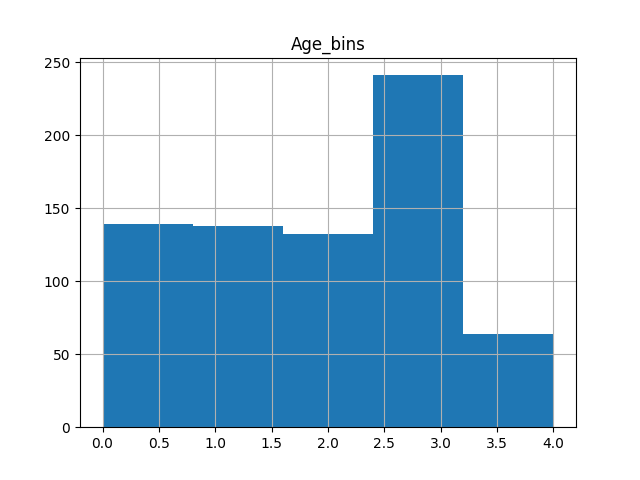
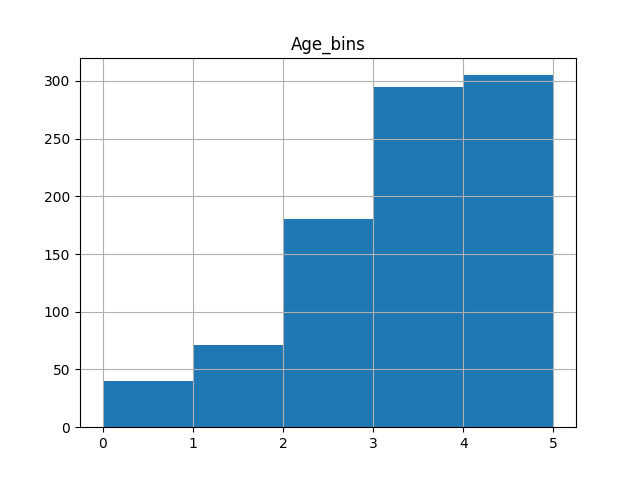
Ticket group, Fare group, Random Forest Classification

diff --git a/train.py b/train.py
@@ -4,8 +4,10 @@ import matplotlib.pyplot as plt
 import seaborn as sn
 
 from sklearn.linear_model import LogisticRegression
+from sklearn.ensemble import RandomForestClassifier
 from sklearn.impute import SimpleImputer
 from sklearn import preprocessing 
+from sklearn import metrics
 
 train = pd.read_csv("train.csv")
 test = pd.read_csv("test.csv")
@@ -16,16 +18,18 @@ test['Age'] = test['Age'].replace('NaN', np.nan)
 
 titels = ('Mlle.', 'Dr.', 'Master.', 'Col.', 'Rev.', 'Sir.', 'Lady.', 'Major.', 'Mme.', 'Capt.')
 
-k=-1
-for i in train['Age']:
-	k+=1
+print(train.groupby('SibSp', as_index=False)['Age'].mean())
+print(train.groupby('Parch', as_index=False)['Age'].mean())
+
+k=0
+for i in train['PassengerId']:
 	string = (train.iloc[k,3])
 	train.at[k, 'Name'] = string.split(',', 1)[0]
 	train.at[k, 'Titles'] = 0
 	for i in string.split(' '):
 		if i in titels:
 			train.at[k, 'Titles'] = 1	
-	if pd.isna(i):
+	if pd.isna(train.at[k, 'Age']):
 		if train.iloc[k,6] < 2:
 			if train.iloc[k,7] > 2:
 				train.at[k, 'Age'] = train.loc[train['Parch'] > 2, 'Age'].mean()
@@ -36,16 +40,34 @@ for i in train['Age']:
 		if train.iloc[k,6] > 2:
 			train.at[k, 'Age'] = train.loc[train['SibSp'] > 2, 'Age'].mean()
 
-k=-1
-for i in test['Age']:
+	try:
+		integer = int(train.iloc[k,8])
+		if integer > 99999:
+			train.at[k, 'Ticket_group'] = 0
+		if integer < 100000:
+			train.at[k, 'Ticket_group'] = 1
+	except ValueError:
+		train.at[k, 'Ticket_group'] = 2
+
+	if train.iloc[k,9] < 8:
+		train.at[k, 'Fare_group'] = 0
+	elif train.iloc[k,9] < 16:
+		train.at[k, 'Fare_group'] = 1
+	elif train.iloc[k,9] < 50:
+		train.at[k, 'Fare_group'] = 2
+	else:
+		train.at[k, 'Fare_group'] = 3
 	k+=1
+
+k=0
+for i in test['PassengerId']:
 	string = (test.iloc[k,2])
 	test.at[k, 'Name'] = string.split(',', 1)[0]
 	test.at[k, 'Titles'] = 0
 	for i in string.split(' '):
 		if i in titels:
 			test.at[k, 'Titles'] = 1	
-	if pd.isna(i):
+	if pd.isna(test.at[k, 'Age']):
 		if test.iloc[k,5] < 2:
 			if test.iloc[k,6] > 2:
 				test.at[k, 'Age'] = train.loc[train['Parch'] > 2, 'Age'].mean()
@@ -55,13 +77,28 @@ for i in test['Age']:
 			test.at[k, 'Age'] = train.loc[train['SibSp'] == 2, 'Age'].mean()
 		if test.iloc[k,5] > 2:
 			test.at[k, 'Age'] = train.loc[train['SibSp'] > 2, 'Age'].mean()
+	try:
+		integer = int(test.iloc[k,7])
+		if integer > 99999:
+			test.at[k, 'Ticket_group'] = 0
+		if integer < 100000:
+			test.at[k, 'Ticket_group'] = 1
+	except ValueError:
+		test.at[k, 'Ticket_group'] = 2
 
-print(train.groupby('SibSp', as_index=False)['Age'].mean())
-print(train.groupby('Parch', as_index=False)['Age'].mean())
+	if test.iloc[k,8] < 8:
+		test.at[k, 'Fare_group'] = 0
+	elif test.iloc[k,8] < 16:
+		test.at[k, 'Fare_group'] = 1
+	elif test.iloc[k,8] < 50:
+		test.at[k, 'Fare_group'] = 2
+	else:
+		test.at[k, 'Fare_group'] = 3
+	k+=1
 
 
-train['Age_bins'] = pd.cut(x=train['Age'], bins=[0, 18, 24, 30, 50, 80], labels=False)
-test['Age_bins'] = pd.cut(x=test['Age'], bins=[0, 18, 24, 30, 50, 80], labels=False)
+train['Age_bins'] = pd.cut(x=train['Age'], bins=[0, 4, 16, 24, 30, 40, 80], labels=False)
+test['Age_bins'] = pd.cut(x=test['Age'], bins=[0, 4, 16, 24, 30, 40, 80], labels=False)
 
 ##print(correlation)
 
@@ -76,12 +113,15 @@ plt.savefig('graphs/age_hist.png')
 train[['Age_bins']].hist(bins=5)
 plt.savefig('graphs/age_bins_hist.png')
 
-train = train.drop(["PassengerId","Cabin","Ticket","Name","Fare"], axis=1)
-test = test.drop(["PassengerId","Cabin","Ticket","Name","Fare"], axis=1)
+train = train.drop(["PassengerId","Cabin","Ticket","Name","Fare","Age"], axis=1)
+test = test.drop(["PassengerId","Cabin","Ticket","Name","Fare","Age"], axis=1)
 
 plt.close
 
 trainMatrix = train.corr()
+
+f, ax = plt.subplots(figsize=(11, 9))
+
 sn.heatmap(trainMatrix, annot=True)
 plt.savefig('graphs/heatmap.png')
 plt.close
@@ -89,10 +129,10 @@ x=0
 
 #####deal with nan
 
-#print(pd.isnull(train).sum() > 0)
-#print(pd.isnull(test).sum() > 0)
+print(pd.isnull(train).sum() > 0)
+print(pd.isnull(test).sum() > 0)
 
-columns_nan = ('Age','Age_bins','Embarked')
+columns_nan = ('Age_bins','Embarked')
 
 for column in columns_nan:
 	if column == 'Embarked':
@@ -122,6 +162,8 @@ test['Embarked']= label_encoder.fit_transform(test['Embarked'])
 X_train = train.drop("Survived", axis=1)
 Y_train = train["Survived"]
 X_test  = test.copy()
+Y_test = pd.read_csv("gender_submission.csv")
+Y_test = Y_test.drop("PassengerId", axis=1)
 
 #fit data
 
@@ -129,4 +171,9 @@ logreg = LogisticRegression(max_iter=1000)
 logreg.fit(X_train, Y_train)
 Y_pred = logreg.predict(X_test)
 acc_log = round(logreg.score(X_train, Y_train) * 100, 2)
-print('Accuracy:',acc_log)
+print('Accuracy Linear Regression:',acc_log)
+
+clf=RandomForestClassifier(n_estimators=100)
+clf.fit(X_train,Y_train)
+Y_pred=clf.predict(X_test)
+print("Accuracy Random Forest:",metrics.accuracy_score(Y_test, Y_pred))
